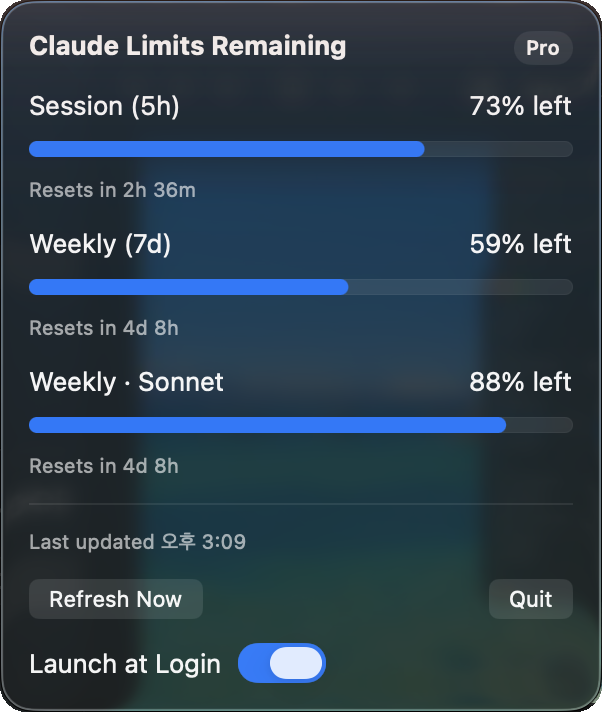
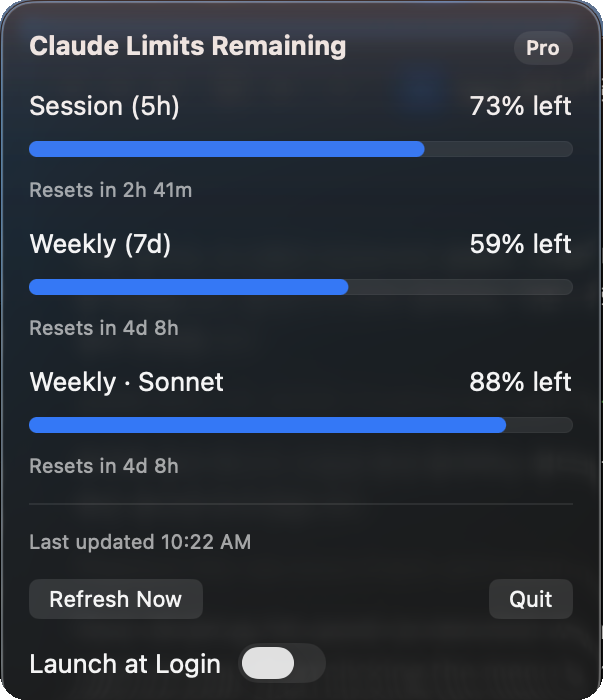
Show the panel clock in English and retake the screenshot
Text(date, style: .time) followed the Mac's language, so an otherwise
English panel read 'Last updated 오후 3:09' on a Korean Mac. TimeFormat
formats the clock with English words while still following the Mac's
12- or 24-hour setting. Seven checks cover it.

The panel screenshot is retaken with -AppleLanguages "(en)", which the
argument parser passes through to AppKit.

diff --git a/Sources/ClaudeUsageBarChecks/Checks.swift b/Sources/ClaudeUsageBarChecks/Checks.swift
@@ -180,6 +180,29 @@ enum Checks {
     equal("-AppleLanguages pair does not disturb --mock",
           parsed(["--mock", "27", "-AppleLanguages", "(en)"])?.mockUtilization ?? -1, 27)
 
+    // MARK: - Clock text (English words, the Mac's 12/24-hour choice)
+
+    let noon = Date(timeIntervalSince1970: 1_700_000_000)
+
+    func clock(_ identifier: String) -> String {
+        TimeFormat.clock(noon, locale: Locale(identifier: identifier))
+    }
+
+    check("clock: Korean locale still reads in English", !clock("ko_KR").contains("오"),
+          "got \(clock("ko_KR"))")
+    check("clock: 12-hour locale uses AM/PM", clock("en_US").hasSuffix("AM") || clock("en_US").hasSuffix("PM"),
+          "got \(clock("en_US"))")
+    check("clock: 24-hour locale has no AM/PM", !clock("en_GB").contains("M"), "got \(clock("en_GB"))")
+    check("clock: 24-hour locale detected", TimeFormat.uses24HourClock(Locale(identifier: "en_GB")))
+    check("clock: 12-hour locale detected", !TimeFormat.uses24HourClock(Locale(identifier: "en_US")))
+    check("clock: hour and minute shown", clock("en_US").contains(":"), "got \(clock("en_US"))")
+    check("clock: a minute later reads differently",
+          TimeFormat.clock(noon, locale: Locale(identifier: "en_US"))
+              != TimeFormat.clock(noon.addingTimeInterval(60), locale: Locale(identifier: "en_US")))
+    check("clock: same instant reads the same",
+          TimeFormat.clock(noon, locale: Locale(identifier: "en_US"))
+              == TimeFormat.clock(noon, locale: Locale(identifier: "en_US")))
+
     // MARK: - Result
 
     if failures > 0 {

diff --git a/Sources/ClaudeUsageBar/TimeFormat.swift b/Sources/ClaudeUsageBar/TimeFormat.swift
@@ -1,0 +1,19 @@
+import Foundation
+
+// The panel's text is English, so the clock text is English too ("3:09 PM", not
+// "오후 3:09"). The 12- or 24-hour choice still follows the Mac's setting, which
+// is what "j" resolves to in the current locale.
+enum TimeFormat {
+    static func clock(_ date: Date, locale: Locale = .current) -> String {
+        let formatter = DateFormatter()
+        formatter.locale = Locale(identifier: "en_US_POSIX")
+        formatter.timeZone = .current
+        formatter.dateFormat = uses24HourClock(locale) ? "HH:mm" : "h:mm a"
+        return formatter.string(from: date)
+    }
+
+    static func uses24HourClock(_ locale: Locale) -> Bool {
+        let template = DateFormatter.dateFormat(fromTemplate: "j", options: 0, locale: locale) ?? "h"
+        return !template.contains("h") && !template.contains("K")
+    }
+}

diff --git a/Sources/ClaudeUsageBar/PopoverView.swift b/Sources/ClaudeUsageBar/PopoverView.swift
@@ -41,7 +41,7 @@ struct PopoverView: View {
 
             HStack {
                 if let updated = store.lastUpdated {
-                    Text("Last updated \(updated, style: .time)")
+                    Text("Last updated \(TimeFormat.clock(updated))")
                 } else {
                     Text("Not updated yet")
                 }

diff --git a/Sources/ClaudeUsageBarChecks/TimeFormat.swift b/Sources/ClaudeUsageBarChecks/TimeFormat.swift
@@ -1,0 +1,1 @@
+../ClaudeUsageBar/TimeFormat.swift

diff --git a/CLAUDE.md b/CLAUDE.md
@@ -29,7 +29,7 @@ pkill -x ClaudeUsageBar; ./Scripts/bundle.sh && ditto build/ClaudeUsageBar.app /
 
 | Change | File |
 |---|---|
-| Panel text, layout, Launch at Login toggle | `Sources/ClaudeUsageBar/PopoverView.swift` |
+| Panel text, layout, Launch at Login toggle | `Sources/ClaudeUsageBar/PopoverView.swift`, clock text in `TimeFormat.swift` |
 | Menu bar label (`73%`, `73%!`, `?`, `…`) | `Sources/ClaudeUsageBar/App.swift` |
 | Launch arguments (`LaunchOptions.parse`) | `Sources/ClaudeUsageBar/LaunchOptions.swift` |
 | Logic checks | `Sources/ClaudeUsageBarChecks/Checks.swift` |
@@ -39,7 +39,7 @@ pkill -x ClaudeUsageBar; ./Scripts/bundle.sh && ditto build/ClaudeUsageBar.app /
 | Icon step selection, SVG loading, `--render-icons` | `Sources/ClaudeUsageBar/IconProvider.swift` |
 | Menu bar icons (SVG, used as-is) | `Resources/icons/` |
 | `npx github:` installer (build, quit, install, open) | `package.json`, `Scripts/npx-install.sh` |
-| README screenshots | `docs/screenshots/` (retake in `--mock 27` so no real account data appears; crop to the app's own item and panel only). `install.gif` is rendered from a real pty recording of a first `npx` install with a fresh `npm_config_cache`; keep the edits it discloses (build sped up, cache path shortened) |
+| README screenshots | `docs/screenshots/` (retake with `--mock 27 -AppleLanguages "(en)"` so no real account data appears and the panel reads in English; crop to the app's own item and panel only). `install.gif` is rendered from a real pty recording of a first `npx` install with a fresh `npm_config_cache`; keep the edits it discloses (build sped up, cache path shortened) |
 | App icon | `Resources/AppIcon.icns` (source: `Resources/app-icon.svg`) |
 
 ## Hard constraints (do not break)
@@ -65,6 +65,7 @@ pkill -x ClaudeUsageBar; ./Scripts/bundle.sh && ditto build/ClaudeUsageBar.app /
 - **`Task.sleep` does not advance while the Mac sleeps**, so on wake the loop is rebuilt from an absolute `nextPollAt`.
 - **Login toggle** follows the result of `register()`/`unregister()` and re-reads real status when the panel opens, because status read right after `register()` can lag.
 - Icon step: nearest number to the remaining percent; ties go to the lower step.
+- **Panel clock text is English** (`TimeFormat.clock`), because every other string in the panel is. The 12- or 24-hour choice still follows the Mac's setting. `Text(date, style: .time)` was used before and rendered as `오후 3:09` on a Korean Mac.
 
 ## Testing
 

diff --git a/README.md b/README.md
@@ -19,7 +19,7 @@ A small native macOS menu bar app that shows how much of your claude.ai subscrip
 <p>
   <img src="docs/screenshots/menu-bar.png" alt="Menu bar item showing the Clawd gauge icon and 73%" width="68">
   <br>
-  <img src="docs/screenshots/panel.png" alt="Panel with remaining session, weekly, and Sonnet weekly limits, reset times, and a Pro badge" width="301">
+  <img src="docs/screenshots/panel.png" alt="Panel with remaining session, weekly, and Sonnet weekly limits, reset times, and a Pro badge" width="302">
 </p>
 
 <sub>Screenshots taken in mock mode (`--mock 27`), not real account data.</sub>
@@ -197,6 +197,7 @@ Package.swift
 Sources/ClaudeUsageBar/
   App.swift            @main, MenuBarExtra, menu bar label
   LaunchOptions.swift  launch argument parsing
+  TimeFormat.swift     the panel's clock text
   UsageStore.swift     state, polling loop, backoff handling
   UsageAPI.swift       endpoint call, response parsing, backoff policy, User-Agent
   Credentials.swift    token reading, expiry check
